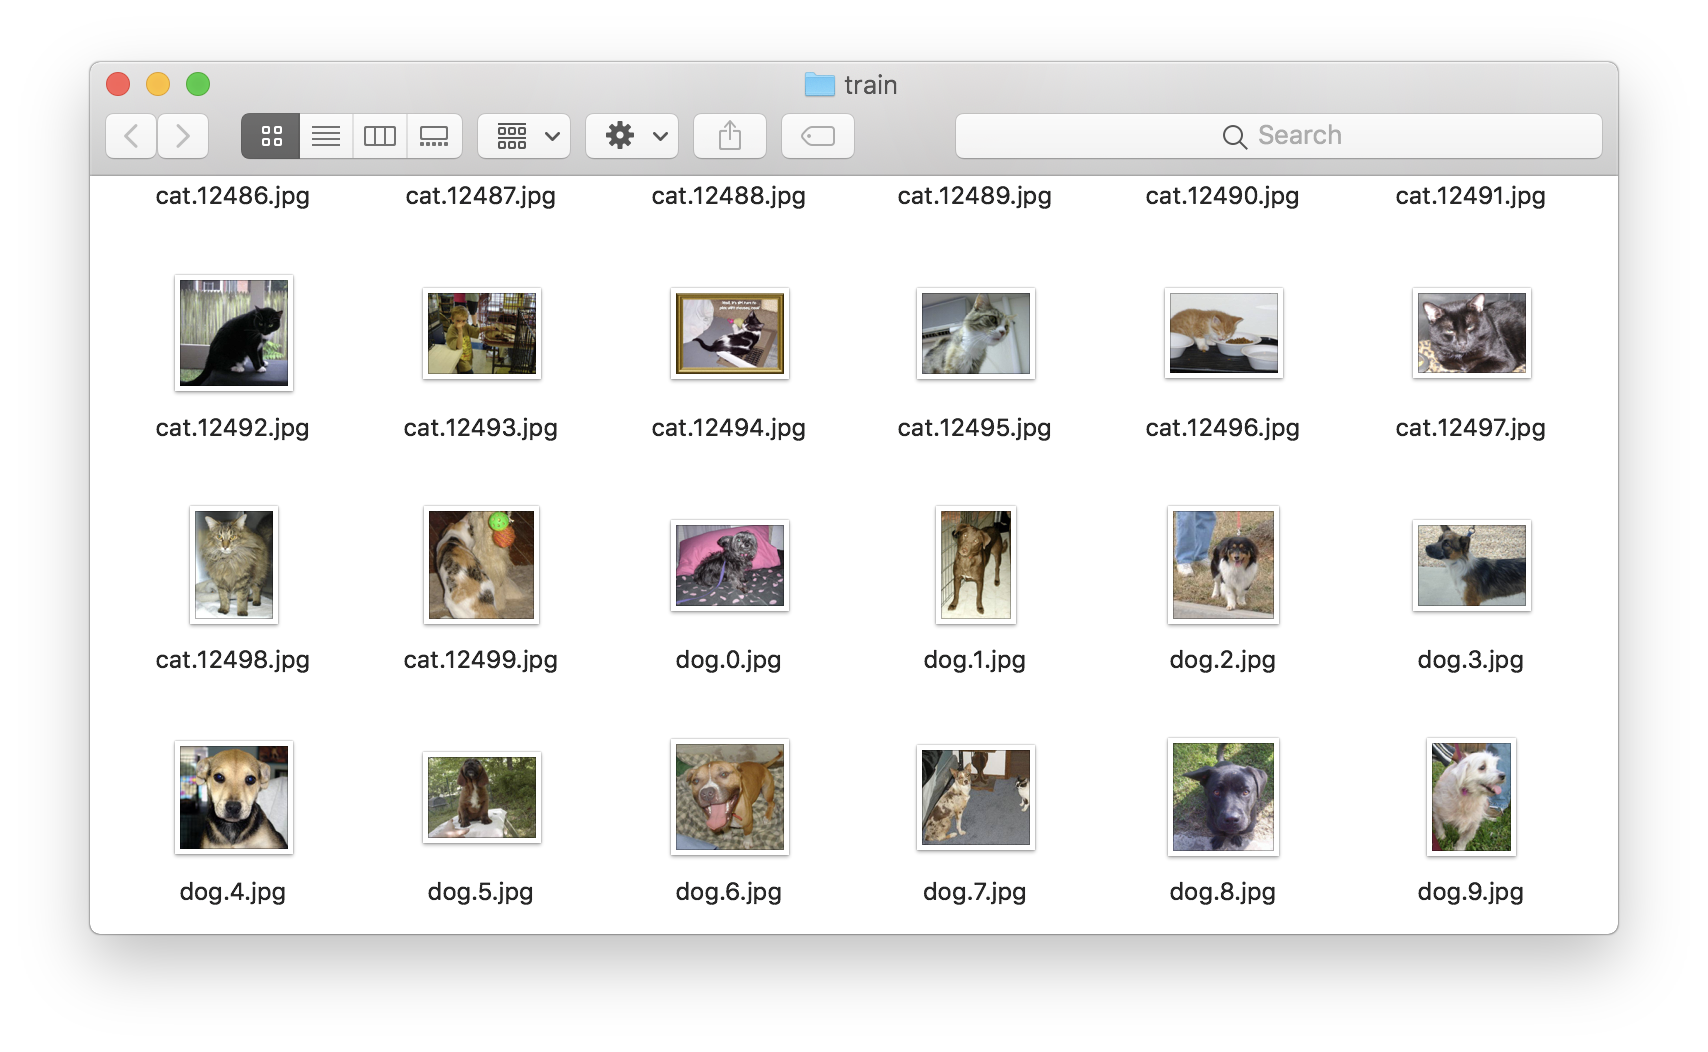
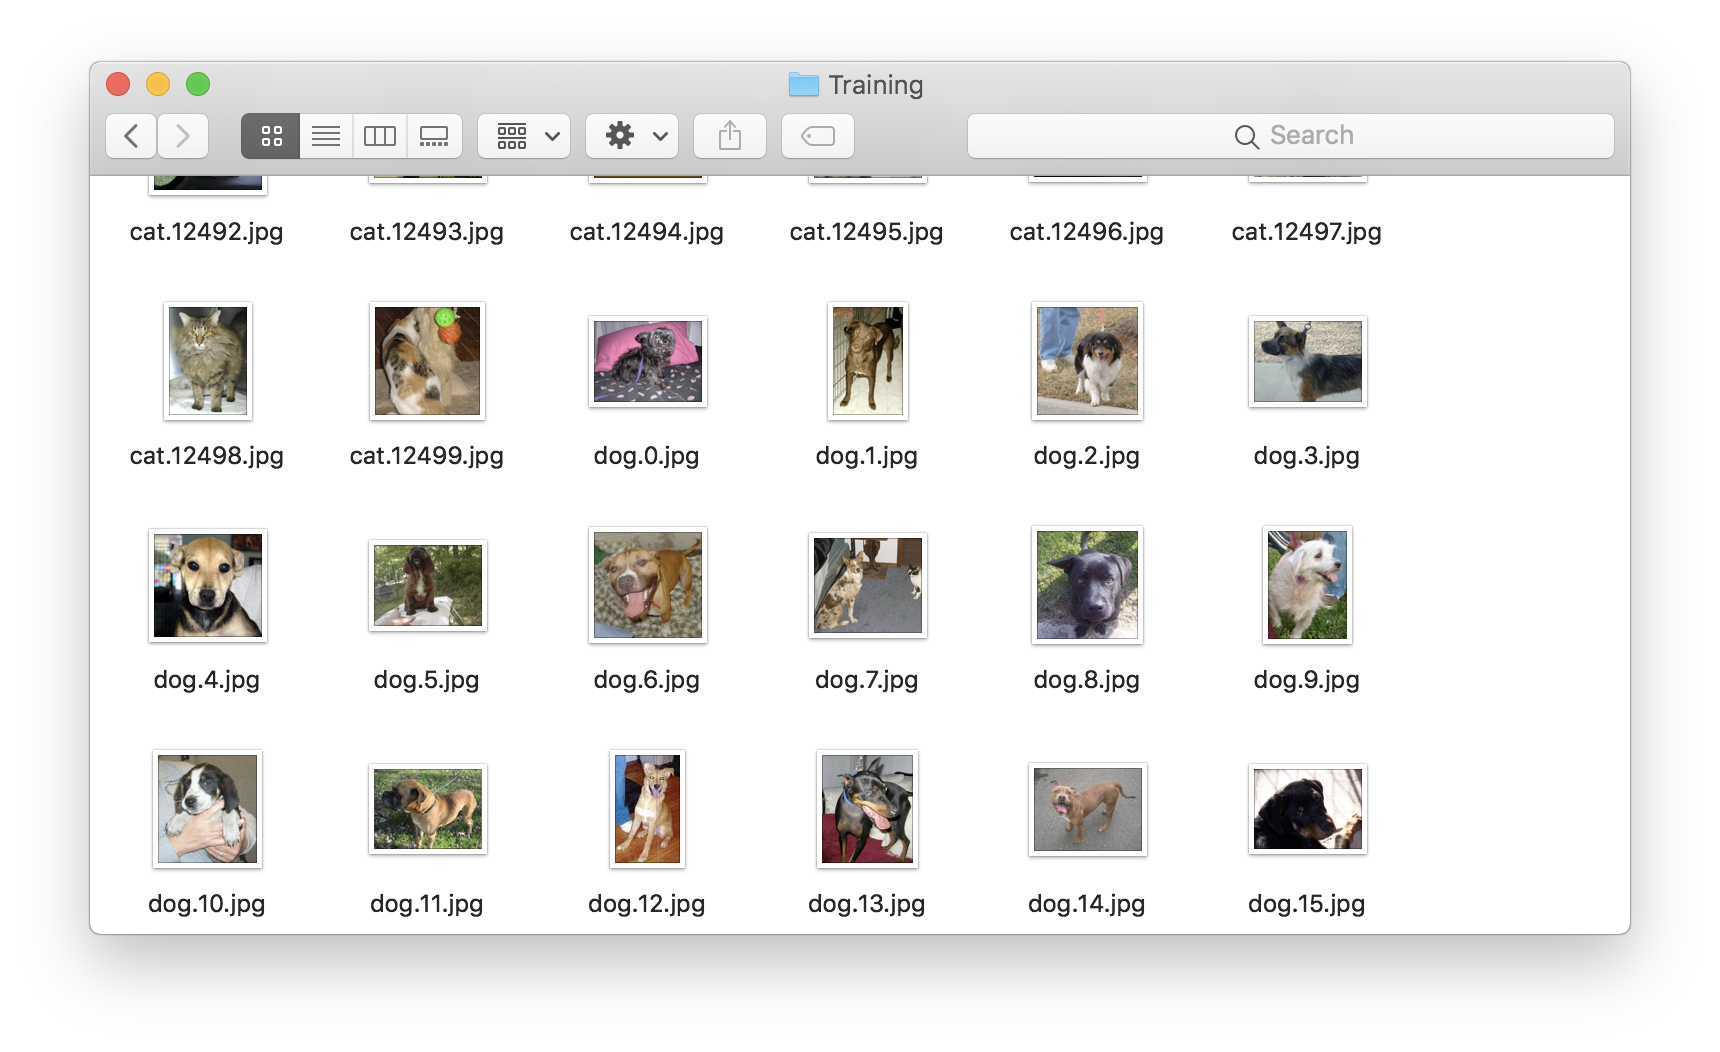
edit3

diff --git a/README.md b/README.md
@@ -6,7 +6,7 @@ You can import `CreateMLUI` to train the image classifier by using drag & drop. 
 
 For ImageClassifier, you can use directory structure (labeling separate folders for data categories) or put all data in one folder and name each image file based on your category. 
 
-For my example, I have a folder noamed "train" which contains images of cats and dogs, nammed accordingly. Whatever you put in the first part of the image's name (**cat**.1.jpg) will be a label. The name after the second period (cat.**2**.jpg) is used to differentiate between each image. If you have different formats of the same image, assign them the same number.
+For my example, I have a folder noamed "Training" which contains images of cats and dogs, nammed accordingly. Whatever you put in the first part of the image's name (**cat**.1.jpg) will be a label. The name after the second period (cat.**2**.jpg) is used to differentiate between each image. If you have different formats of the same image, assign them the same number.
 
 ![](https://github.com/pdelfan/createml-image-classifier/blob/master/Images/1.png)
 
